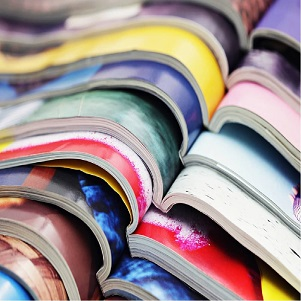
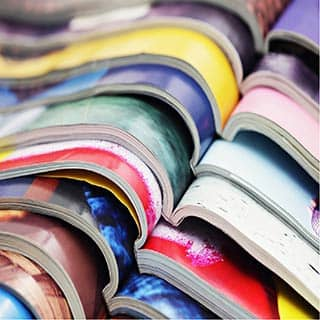
extension img to jpg changing htaccess

diff --git a/index.html b/index.html
@@ -11,16 +11,16 @@
       <meta property="og:description" content="Agence de webdesign située à Lyon. Nous mobilisons toutes nos compétences en illustration et techniques pour vous concevoir des site web graphique et design. Nous vous accompagnons avec enthousiasme dans la conception de vos support de communication">
       <meta property="og:url" content="">
       <meta property="og:site_name" content="La chouette agence">
-      <meta property="og:image" content="/logo.png">
+      <meta property="og:image" content="/logo.jpg">
    
       <!-- Tag Twitter -->
       <meta name="twitter:card" content="summary">
       <meta name="twitter:description" content="Agence de webdesign située à Lyon. Nous mobilisons toutes nos compétences en illustration et techniques pour vous concevoir des site web graphique et design. Nous vous accompagnons avec enthousiasme dans la conception de vos support de communication">
       <meta name="twitter:title" content="La chouette agence">
-      <meta name="twitter:image" content="/logo.png">
+      <meta name="twitter:image" content="/logo.jpg">
       <meta name="twitter:site" content="@LaChouetteAgence">
 
-      <link rel="shortcut icon" type="image/png" href="img/favicon.jpg">
+      <link rel="shortcut icon" type="image/jpg" href="img/favicon.jpg">
       <link rel="stylesheet" type="text/css" href="./css/bootstrap-min.css">
       <link rel="stylesheet" type="text/css" href="style.css">
       <link rel="stylesheet" type="text/css" href="./css/et-line-min.css">
@@ -39,7 +39,7 @@
             <div class="container bloc-sm">
                <nav class="navbar row">
                   <div class="navbar-header">		
-                     <a class="navbar-brand" href="index.html"><img src="img/la-chouette-agence.png" alt="paris web design logo agence web meilleure agence" height="40" /></a>
+                     <a class="navbar-brand" href="index.html"><img src="img/la-chouette-agence.jpg" alt="paris web design logo agence web meilleure agence" height="40" /></a>
                      <button id="nav-toggle" type="button" class="ui-navbar-toggle navbar-toggle" data-toggle="collapse" data-target=".navbar-1">
                      <span class="sr-only">Toggle navigation</span><span class="icon-bar"></span><span class="icon-bar"></span><span class="icon-bar"></span>
                      </button>
@@ -65,7 +65,7 @@
             <div class="container bloc-lg">
                <div class="row tight-width-whitespace">
                   <div class="col-sm-12">
-                     <img src="img/logo.png" class="center-block image-resize-mode" width="100" alt="Logo de la-chouette-agence représentation graphique d'une chouette" />
+                     <img src="img/logo.jpg" class="center-block image-resize-mode" width="100" alt="Logo de la-chouette-agence représentation graphique d'une chouette" />
                      <h1 class="text-center hero-bloc-text tc-white ">
                         La chouette agence
                      </h1>
@@ -177,7 +177,7 @@
                </div>
                <div class="row tight-width-whitespace portfolio-row">
                   <div class="col-sm-6">
-                     <a href="#" data-lightbox="img/3.bmp" data-gallery-id="gallery-1" data-caption="Création d'un site internet pour un voyageur" data-frame="snapshot-lb"><img src="img/Appareils-photos.png" class="img-responsive portfolio-thumb" alt="Representation du package pour voyageur"/></a>
+                     <a href="#" data-lightbox="img/3.bmp" data-gallery-id="gallery-1" data-caption="Création d'un site internet pour un voyageur" data-frame="snapshot-lb"><img src="img/Appareils-photos.jpg" class="img-responsive portfolio-thumb" alt="Representation du package pour voyageur"/></a>
                      <h3 class="mg-md text-center">
                         Création d'un site internet pour un voyageur
                      </h3>
@@ -186,7 +186,7 @@
                      </p>
                   </div>
                   <div class="col-sm-6">
-                     <a href="#" data-lightbox="img/4.bmp" data-gallery-id="gallery-1" data-caption="Conception d'un site pour une agence de mariage" data-frame="snapshot-lb"><img src="img/Agence-de-mariage.png" class="img-responsive portfolio-thumb" alt="Ordinateur portable et paquets cadeau" /></a>
+                     <a href="#" data-lightbox="img/4.bmp" data-gallery-id="gallery-1" data-caption="Conception d'un site pour une agence de mariage" data-frame="snapshot-lb"><img src="img/Agence-de-mariage.jpg" class="img-responsive portfolio-thumb" alt="Ordinateur portable et paquets cadeau" /></a>
                      <h3 class="mg-md text-center">
                         Conception d'un site pour une agence de mariage
                      </h3>

diff --git a/style.css b/style.css
@@ -91,7 +91,7 @@ a:hover {
 }
 
 .texture-paper::before {
-    background: url("img/texture-paper.png");
+    background: url("img/texture-paper.jpg");
     background-size: 280px 280px;
 }
 
@@ -810,19 +810,19 @@ h4 {
 }
 
 .bg-dots-bg {
-    background-image: url("img/dots-bg.png");
+    background-image: url("img/dots-bg.jpg");
 }
 
 .bg-lines-h2-bg {
-    background-image: url("img/lines-h2-bg.png");
+    background-image: url("img/lines-h2-bg.jpg");
 }
 
 .bg-banniere {
-    background-image: url("img/la-chouette-agence-banniere.png");
+    background-image: url("img/la-chouette-agence-banniere.jpg");
 }
 
 .bg-presentation {
-    background-image: url("img/image-de-presentation.png");
+    background-image: url("img/image-de-presentation.jpg");
 }
 
 @media (max-width: 1024px) {
